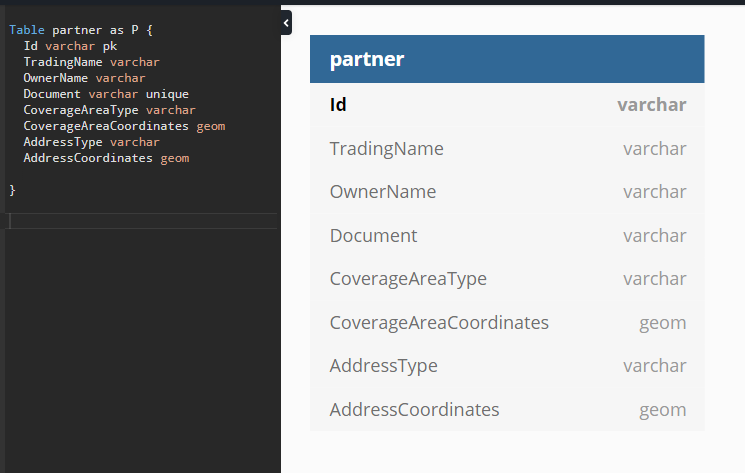
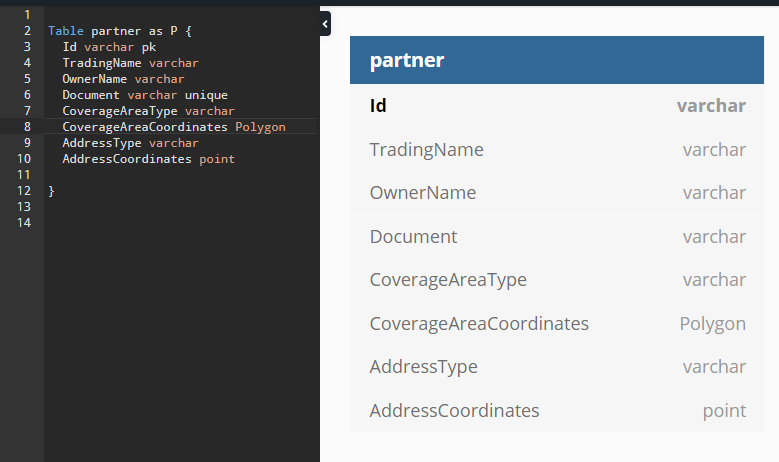
writing to database

diff --git a/src/ZeDelivery.Backend.Challenge.Infrastructure/Database/Queries/InsertNewPartnerQuery.cs b/src/ZeDelivery.Backend.Challenge.Infrastructure/Database/Queries/InsertNewPartnerQuery.cs
@@ -24,7 +24,7 @@ namespace ZeDelivery.Backend.Challenge.Infrastructure.Database.Queries
 
         public async Task<bool> ExecuteAsync(Partner partner)
         {
-            var sql = 
+            var sql =
                 @"INSERT INTO partner( 
                     `Id`, 
                     `TradingName`, 
@@ -40,9 +40,9 @@ namespace ZeDelivery.Backend.Challenge.Infrastructure.Database.Queries
                     @OwnerName,
                     @Document, 
                     @CoverageAreaType,
-                    @CoverageAreaCoordinates,
+                    ST_GEOMFROMTEXT(@CoverageAreaCoordinates),
                     @AddressType,
-                    @AddressCoordinates
+                    ST_GEOMFROMTEXT(@AddressCoordinates)
                 )";
 
             try
@@ -56,17 +56,18 @@ namespace ZeDelivery.Backend.Challenge.Infrastructure.Database.Queries
                         OwnerName = partner.OwnerName,
                         Document = partner.Document,
                         CoverageAreaType = partner.CoverageArea.Type,
-                        CoverageAreaCoordinates = partner.CoverageArea.Coordinates.ToString(),
+                        CoverageAreaCoordinates = partner.CoverageArea.Coordinates.ToGeometry(),
                         AddressType = partner.Address.Type,
-                        AddressCoordinates = partner.Address.Coordinates.ToString()
+                        AddressCoordinates = partner.Address.Coordinates.ToGeometry()
                     });
+
+                    return result > 0;
                 }
-            }catch(Exception e)
+            }
+            catch(Exception e)
             {
                 return false;
             }
-
-            return true;
         }
     }
 }

diff --git a/src/ZeDelivery.Backend.Challenge.Application/UseCases/CreatePartner/CreatePartnerUseCase.cs b/src/ZeDelivery.Backend.Challenge.Application/UseCases/CreatePartner/CreatePartnerUseCase.cs
@@ -40,7 +40,10 @@ namespace ZeDelivery.Backend.Challenge.Application.UseCases.CreatePartner
 
             var AddressPoint = GeoJsonParser.ParsePoint(input.Address.Coordinates);
             var CoverageAreaPolygon = GeoJsonParser.ParsePolygon(input.CoverageArea.Coordinates);
-
+           
+            logger.LogInformation(CoverageAreaPolygon.ToGeometry());
+            logger.LogInformation(AddressPoint.ToGeometry());
+           
             var partner = new Partner(
                 input.Id,
                 input.TradingName, 

diff --git a/src/ZeDelivery.Backend.Challenge.Domain/Entities/Point.cs b/src/ZeDelivery.Backend.Challenge.Domain/Entities/Point.cs
@@ -24,7 +24,7 @@ namespace ZeDelivery.Backend.Challenge.Domain.Entities
 
         public string ToGeometry()
         {
-            return $"POINT({Latitude} {Longitude})";
+            return $"POINT({Latitude.ToString().Replace(",", ".")} {Longitude.ToString().Replace(",", ".")})";
         }
     }
 }
